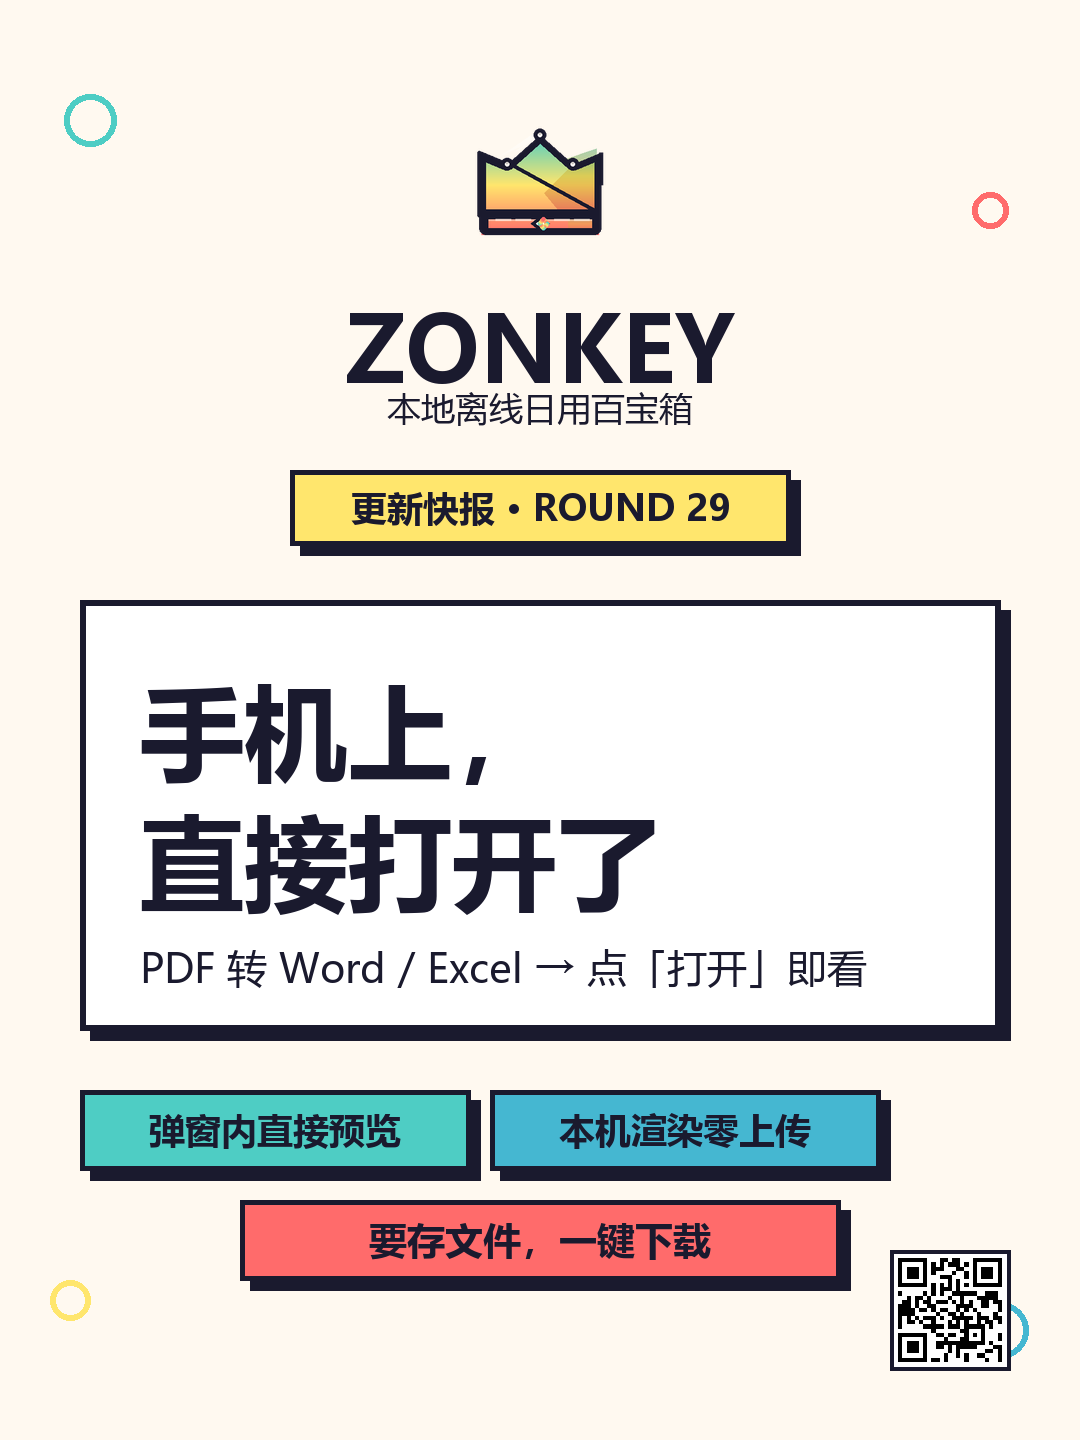
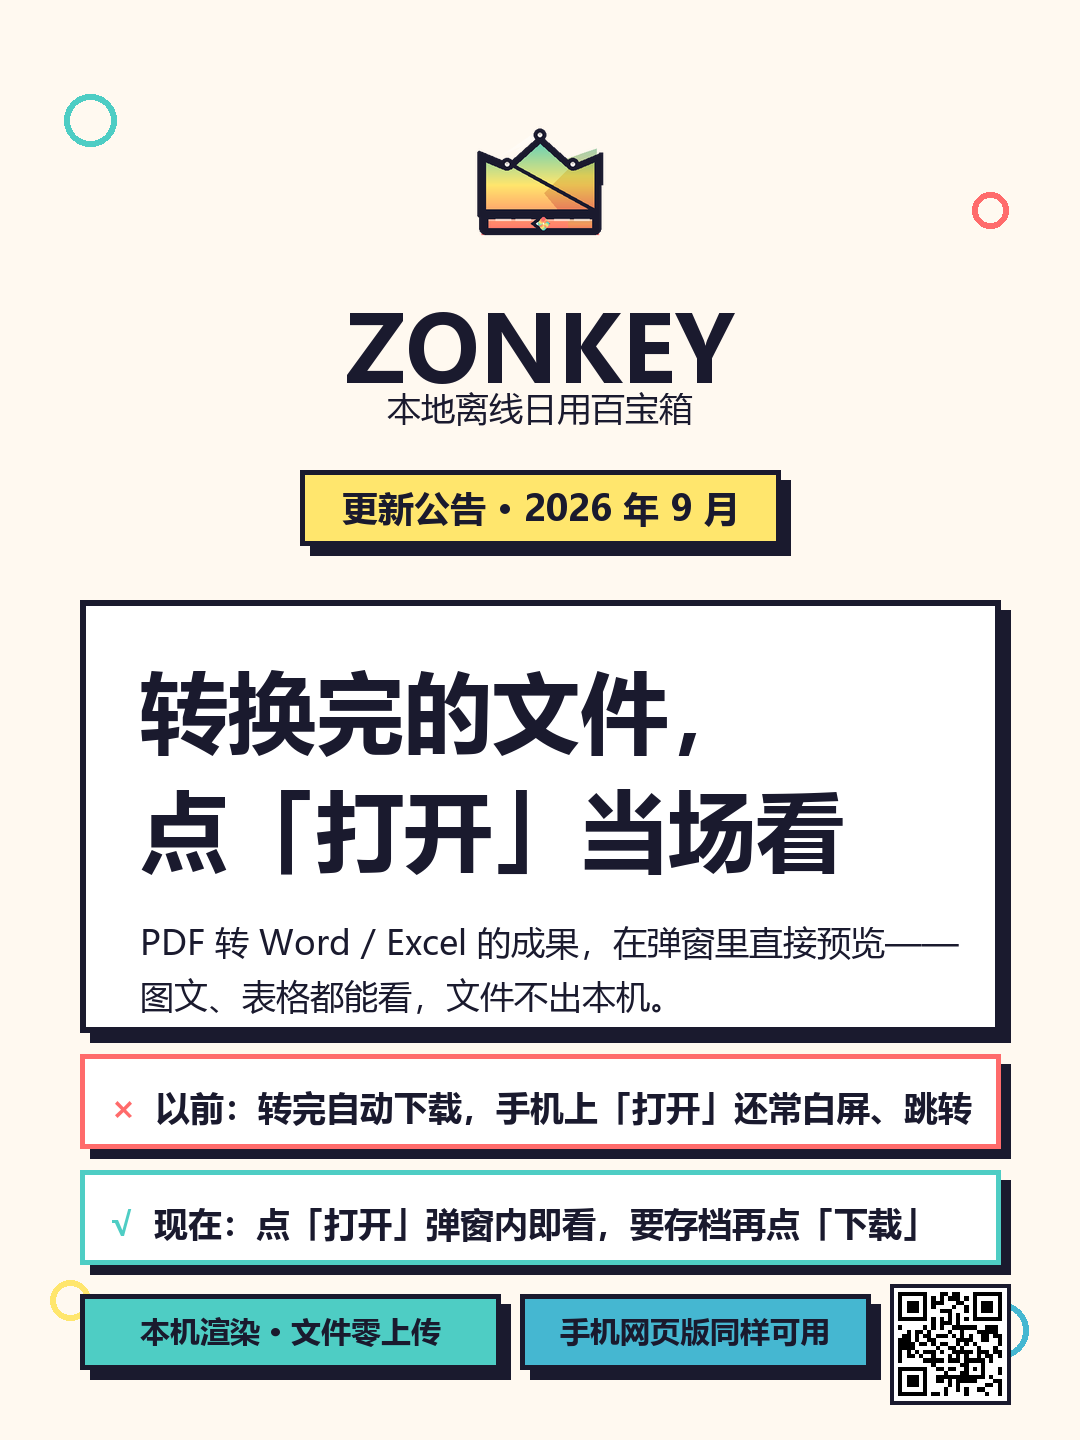
moments(r29)+docs: 朋友圈三卡按用户反馈重做——文案写清「本次更新了什么」(卡1 一句话点题+以前/现在对比、卡2 三件事清单不混旧轮功能、卡3 获取方式) + judge 视觉验收 3/3 pass + MOMENTS_KIT 文案 A/B 同步(旧功能降脚注) + handoff/status 登记 Release v2.1.0(0903 批次)落后本地 0907 待确认

Changed region(s): [[0.0611, 0.4688, 0.9472, 1.0], [0.2444, 0.3125, 0.7639, 0.375]]

diff --git a/scripts/gen_moments_r29.py b/scripts/gen_moments_r29.py
@@ -1,6 +1,12 @@
 # -*- coding: utf-8 -*-
 """round-29 朋友圈物料生成：docs/screenshots/round29/moments/moments-01~03.png
 1080×1440（3:4）Memphis 风格，品牌色与 index.css 同源，皇冠图标 alpha_composite 合成。
+
+文案口径（2026-09-07 用户反馈重做）：
+- 写清楚「本次更新了什么」——本次=r29 两条核心变化：
+  ① 转换结果点「打开」弹窗内直接预览（docx/xlsx 本机渲染、零上传、不跳转不白屏）
+  ② 转换完成不再自动下载，要存档再点「下载」
+- 不再把 r26-r28 旧功能混排成「这次更新」（QR/证件照等仅文案脚注提及，卡片不占主位）。
 """
 from pathlib import Path
 
@@ -23,44 +29,56 @@ WHITE = (255, 255, 255)
 F_BOLD = 'C:/Windows/Fonts/msyhbd.ttc'
 F_REG = 'C:/Windows/Fonts/msyh.ttc'
 
+
 def font(size, bold=True):
     return ImageFont.truetype(F_BOLD if bold else F_REG, size)
+
 
 def card_base():
     im = Image.new('RGB', (W, H), CREAM)
     d = ImageDraw.Draw(im)
-    # Memphis 装饰点/圈
     for (x, y, r, col) in [(90, 120, 26, TEAL), (990, 210, 18, CORAL), (70, 1300, 20, YELLOW), (1000, 1330, 28, SKY)]:
         d.ellipse([x - r, y - r, x + r, y + r], outline=col, width=6)
     return im, d
 
-def panel(d, box, fill=WHITE, width=6):
+
+def panel(d, box, fill=WHITE, width=6, border=INK):
     x0, y0, x1, y1 = box
     d.rectangle([x0 + 10, y0 + 10, x1 + 10, y1 + 10], fill=INK)  # memphis 硬阴影
-    d.rectangle(box, fill=fill, outline=INK, width=width)
+    d.rectangle(box, fill=fill, outline=border, width=width)
 
-def text_cjk(d, xy, text, f, fill=INK, max_w=None):
-    x, y = xy
-    if max_w is None:
-        d.text((x, y), text, font=f, fill=fill)
-        return d.textbbox((x, y), text, font=f)[3]
-    line, last_w = '', 0
+
+def _wrap(d, text, f, max_w):
+    """把 text 按 max_w 折行，返回行列表（字符级折行，适配 CJK）。"""
+    lines, line = [], ''
     for ch in text:
-        w = d.textlength(line + ch, font=f)
-        if max_w and w > max_w and line:
-            d.text((x, y), line, font=f, fill=fill)
-            y += d.textbbox((0, 0), line, font=f)[3] + 14
+        if line and d.textlength(line + ch, font=f) > max_w:
+            lines.append(line)
             line = ch
         else:
             line += ch
-    d.text((x, y), line, font=f, fill=fill)
-    return y + d.textbbox((0, 0), line, font=f)[3]
+    if line:
+        lines.append(line)
+    return lines
+
+
+def text_block(d, xy, lines, f, fill=INK, gap=13):
+    """逐行绘制；返回最后一行底 y。"""
+    x, y = xy
+    lh = d.textbbox((0, 0), '中', font=f)[3]
+    for i, ln in enumerate(lines):
+        d.text((x, y), ln, font=f, fill=fill)
+        if i < len(lines) - 1:
+            y += lh + gap
+    return y + lh
+
 
 def chip(d, box, label, fill, fsize=34):
     panel(d, box, fill=fill, width=5)
     x0, y0, x1, y1 = box
     tw = d.textlength(label, font=font(fsize))
     d.text(((x0 + x1 - tw) / 2, (y0 + y1) / 2 - fsize * 0.72), label, font=font(fsize), fill=INK)
+
 
 def qr_image(url, box_px):
     q = qrcode.QRCode(border=2, box_size=10)
@@ -69,9 +87,11 @@ def qr_image(url, box_px):
     im = q.make_image(fill_color='black', back_color='white').convert('RGB')
     return im.resize((box_px, box_px), Image.NEAREST)
 
+
 def crown(im, center, size=150):
     icon = Image.open(ROOT / 'assets' / 'zonkey.png').convert('RGBA').resize((size, size), Image.LANCZOS)
     im.paste(icon, (center[0] - size // 2, center[1] - size // 2), icon)
+
 
 def wordmark(d, cx, y, size=92):
     f = font(size)
@@ -81,52 +101,99 @@ def wordmark(d, cx, y, size=92):
     tw2 = d.textlength('本地离线日用百宝箱', font=font(34, False))
     d.text((cx - tw2 / 2, y + size + 8), '本地离线日用百宝箱', font=font(34, False), fill=INK)
 
-# ---------------- moments-01 主卡 ----------------
+
+def qr_box(im, d, box, url):
+    """小二维码 + 描边。box=(x0,y0,x1,y1)"""
+    x0, y0, x1, y1 = box
+    q = qr_image(url, x1 - x0)
+    im.paste(q, (x0, y0))
+    d.rectangle(box, outline=INK, width=4)
+
+
+def delta_row(d, y0, symbol, text, col):
+    """以前/现在 对比条；symbol 用强调色，正文用墨色。返回条底 y（含间距）。"""
+    box = (80, y0, 1000, y0 + 94)
+    panel(d, box, fill=WHITE, width=5, border=col)
+    prefix = symbol + '  '
+    f = font(34)
+    px = d.textlength(prefix, font=f)
+    d.text((110, y0 + 30), prefix, font=f, fill=col)
+    d.text((110 + px, y0 + 30), text, font=f, fill=INK)
+    return y0 + 116
+
+
+# ---------------- moments-01 主卡：一句话讲清本次更新 ----------------
 im, d = card_base()
 crown(im, (W // 2, 190), 150)
 wordmark(d, W // 2, 285)
-chip(d, (W // 2 - 250, 470, W // 2 + 250, 545), '更新快报 · ROUND 29', YELLOW, 36)
-panel(d, (80, 600, W - 80, 1030))
-text_cjk(d, (140, 660), '手机上，', font(104))
-text_cjk(d, (140, 790), '直接打开了', font(104))
-text_cjk(d, (140, 940), 'PDF 转 Word / Excel → 点「打开」即看', font(40, False))
-chip(d, (80, 1090, 470, 1170), '弹窗内直接预览', TEAL, 36)
-chip(d, (490, 1090, 880, 1170), '本机渲染零上传', SKY, 36)
-chip(d, (240, 1200, 840, 1280), '要存文件，一键下载', CORAL, 38)
-im.paste(qr_image('https://zonkey.pages.dev', 120), (W - 190, H - 190))
-d.rectangle([W - 190, H - 190, W - 70, H - 70], outline=INK, width=4)
+chip(d, (W // 2 - 240, 470, W // 2 + 240, 545), '更新公告 · 2026 年 9 月', YELLOW, 36)
+
+f_title = font(88)
+f_sub = font(34, False)
+sub = 'PDF 转 Word / Excel 的成果，在弹窗里直接预览——图文、表格都能看，文件不出本机。'
+sub_lines = _wrap(d, sub, f_sub, 830)
+panel(d, (80, 600, 1000, 1032))
+y = text_block(d, (140, 650), ['转换完的文件，', '点「打开」当场看'], f_title)
+y = text_block(d, (140, y + 44), sub_lines, f_sub)  # 说明 ≤2 行，结束 ≤1032
+
+# 以前 / 现在：用户最关心的「改了什么」一目了然
+ry = delta_row(d, y + 40, '×', '以前：转完自动下载，手机上「打开」还常白屏、跳转', CORAL)
+ry = delta_row(d, ry, '√', '现在：点「打开」弹窗内即看，要存档再点「下载」', TEAL)
+
+# 底部 chips（左）+ 小 QR（右下）
+chip(d, (80, ry + 8, 500, ry + 83), '本机渲染 · 文件零上传', TEAL, 30)
+chip(d, (520, ry + 8, 870, ry + 83), '手机网页版同样可用', SKY, 30)
+qr_box(im, d, (890, ry - 2, 1010, ry + 118), 'https://zonkey.pages.dev')
 im.save(OUT / 'moments-01.png')
 
-# ---------------- moments-02 更新清单卡 ----------------
+# ---------------- moments-02 更新清单卡：本次更新 3 件事 ----------------
 im, d = card_base()
-chip(d, (W // 2 - 300, 110, W // 2 + 300, 185), '这次更新了什么', CORAL, 40)
+chip(d, (W // 2 - 260, 110, W // 2 + 260, 185), '本次更新了什么', CORAL, 40)
+
 items = [
-    ('第 29 轮', '手机「打开」直接预览：PDF 转 Word/Excel 弹窗内即看，不用先下载', YELLOW),
-    ('第 28 轮', '二维码生成/识别 手机网页版可用，离线也能用', TEAL),
-    ('第 27 轮', '证件照换底色手机可用；「打开文件」白屏修复', SKY),
-    ('第 26 轮', '「任务完成」弹窗统一交付：打开 / 下载一键直达', CORAL),
+    ('弹窗内直接预览', YELLOW,
+     'PDF 转 Word / Excel 后点「打开」：内容在弹窗里原样渲染，图文表格直接看，不跳转、不白屏。'),
+    ('不再自动下载', TEAL,
+     '转换完成不再自动落文件、不再打断你；需要存档时点「下载」，按需保存一份。'),
+    ('本机完成 · 零上传', SKY,
+     '预览与转换都在你的设备上运行，文件不出本机、断网也能用；手机上同样适用。'),
 ]
-y = 250
-for tag, line, col in items:
-    panel(d, (80, y, W - 80, y + 265))
-    chip(d, (120, y + 40, 380, y + 110), tag, col, 34)
-    text_cjk(d, (120, y + 135), line, font(36, False), max_w=W - 280)
-    y += 290
+y = 240
+for tag, col, desc in items:
+    panel(d, (80, y, 1000, y + 300))
+    chip(d, (110, y + 34, 430, y + 102), tag, col, 33)
+    d_lines = _wrap(d, desc, font(35, False), 800)
+    text_block(d, (110, y + 126), d_lines, font(35, False))
+    y += 320
+
+# 底部说明条 + 日期锚点
+note = '网页版本次更新已全部上线；桌面版同步更新——桌面端点「打开」仍走系统默认程序。'
+n_lines = _wrap(d, note, font(30, False), 820)
+panel(d, (80, y + 8, 1000, y + 8 + 52 + len(n_lines) * 44))
+text_block(d, (120, y + 24), n_lines, font(30, False))
+note_b = y + 8 + 52 + len(n_lines) * 44
+tw = d.textlength('2026 年 9 月 · zonkey.pages.dev', font=font(30))
+d.text(((W - tw) / 2, note_b + 22), '2026 年 9 月 · zonkey.pages.dev', font=font(30), fill=INK)
 im.save(OUT / 'moments-02.png')
 
 # ---------------- moments-03 获取方式卡 ----------------
 im, d = card_base()
 crown(im, (W // 2, 200), 140)
-wordmark(d, W // 2, 300)
-panel(d, (80, 500, W - 80, 780))
-d.text((140, 540), '网页版 · 扫码即用', font=font(56), fill=INK)
-text_cjk(d, (140, 630), '手机浏览器打开 zonkey.pages.dev', font(40, False))
-text_cjk(d, (140, 690), '不用安装，本次更新已上线', font(40, False))
+wordmark(d, W // 2, 300, size=84)
+
+panel(d, (80, 500, 1000, 790))
+d.text((130, 540), '网页版 · 扫码即用', font=font(56), fill=INK)
+l1 = _wrap(d, '本次更新已上线：转换完的文件点「打开」就能看', font(34, False), 830)
+l2 = _wrap(d, '手机上免安装直接用 · 文件只在你的设备上处理', font(34, False), 830)
+text_block(d, (130, 626), l1, font(34, False))
+text_block(d, (130, 700), l2, font(34, False))
 im.paste(qr_image('https://zonkey.pages.dev', 300), (W // 2 - 150, 840))
 d.rectangle([W // 2 - 150, 840, W // 2 + 150, 1140], outline=INK, width=6)
-panel(d, (80, 1190, W - 80, 1370))
-d.text((140, 1230), '桌面版 · 完整能力', font=font(52), fill=INK)
-text_cjk(d, (140, 1310), 'GitHub / Gitee 搜「ZonKey」· 免费开源', font(38, False))
+
+panel(d, (80, 1190, 1000, 1400))
+d.text((130, 1226), '桌面版 · 完整能力', font=font(50), fill=INK)
+text_block(d, (130, 1294), ['GitHub / Gitee 搜「ZonKey」'], font(34, False))
+text_block(d, (130, 1350), ['Release 里有安装包和便携版'], font(34, False))
 im.save(OUT / 'moments-03.png')
 
 print('moments r29 ->', OUT)

diff --git a/docs/AGENTS_HANDOFF.md b/docs/AGENTS_HANDOFF.md
@@ -13,6 +13,8 @@
 - **验证汇总**：npm build（主 chunk `index-Bh4HOGe1.js`，视图/i18n 在 `index-Pye54myn.js`）；新 `temp_ui_test/r29_preview_smoke.py` **18/18**——离线组（route abort 模拟 Pages）：PDF→Word 弹窗「打开」可见 + mammoth 预览正文命中 fixture 标记 + **转换完成零自动下载** + 手动「下载」×1、PDF→Excel SheetJS 表格+Page 1 sheet 名、手机 390×844 全链路；WhatsNew 首启自动弹 + 「第 29 轮/直接预览」文案 + 知道了后 seenRound=29 落盘；E0 零 pageerror（route-abort 网络噪声除外）。pytest **151 passed**（--ignore native dialog）。
 - **收尾状态**：git 分批提交 master 4 笔（`d0f9bd1` 预览修复 → `8b1bbb7` 三语 → `acb8b62` 冒烟+物料 → 本笔 docs）。**EXE 重打包**：等义 bash 链 exit=0（`build_exe_r29.log`），release_acceptance 8/8 PASS，三产物+sidecar 同批 16:40-16:42（Setup 161.0MB / 7z 161.7MB / zip 223.7MB）；zip 主 chunk `index-Bh4HOGe1.js` md5=本地（0c66c8a0），r29 特征串命中（previewLoading×10 / previewNote×4 / artifact-preview-modal×1 / 第 29 轮×1，均在 index-Pye54myn.js）；**Setup 静默实装** EXIT=0+命中，装完即删。**Pages 生产部署 `847a05cc`**（--branch main，Production 实证）：主域 bundle=`index-Pye54myn.js`，**线上 md5=本地=zip 三方一致**（d8f9a1c7），线上 previewLoading 命中。
 - **朋友圈物料**：`docs/screenshots/round29/moments/moments-01~03.png`（1080×1440 3:4，主卡/更新清单/获取方式）+ `scripts/gen_moments_r29.py`（PIL 生成，品牌色与 index.css 同源，皇冠 alpha_composite）+ MOMENTS_KIT.md round-29 节（文案 A/B + 发布建议）。
+  - **当晚重做（用户反馈：写清楚「本次更新了什么」）**：初版把 r26-r28 旧功能（QR/证件照）混排成「这次更新」清单——用户纠正本次只有两条核心变化：①「打开」弹窗内直接预览（本机渲染零上传）②不再自动下载。`gen_moments_r29.py` 文案结构重写：卡1=一句话点题+×/√ 以前现在对比条；卡2=「本次更新了什么」3 件事清单（全部为本次变化，桌面端「仍走系统默认程序」脚注级区分）；卡3=获取方式不变。MOMENTS_KIT.md 文案 A/B 同步（旧功能降为一行脚注）。三卡 judge 视觉验收 3/3 pass。
+  - **Release 状态核实**：线上 Latest=v2.1.0（资产 20260903 批次），本地已产出 20260907 批次三产物——网页下载弹窗动态拉 GitHub Release，当前用户下到的仍是 0903 旧版；是否上传 0907 及方式（追加 v2.1.0 vs 新 tag）待用户确认。
 - **接手注意**：① 弹窗预览=内容视图是设计取舍（mammoth 丢精确排版），要「所见即所得」需重型渲染器（许可+体积双否决，勿轻易引）；② `docPreviewExt`/`BROWSER_PREVIEWABLE` 模块局部名 minified 后 grep 不到属预期，验包用 i18n 特征串（previewLoading/previewNote）；③ wrangler 直传部署的 Source 列与 git sha 不对应，判定部署以 **deployment id + Environment + 线上 bundle md5** 为准；④ reportlab 只是冒烟 fixture 依赖（temp_ui_test），非运行依赖；⑤ 转换类反馈新分类口径补充：「下载可以/打开白屏」=交付层（r27/r29 两轮演进）——先分清用户要「打开」还是「拿到文件」。
 
 ## 〇、2026-09-07 第二十八轮（手机网页版用户反馈三件：405/确认/QR，上轮）

diff --git a/docs/PROJECT_STATUS.md b/docs/PROJECT_STATUS.md
@@ -8,7 +8,8 @@
 | WhatsNew 补课 | ✅ | WHATSNEW_ROUND 23→29（r24-r28 四轮未升的债），entries r26-r29 三语补齐、r19-r23 已读旧条清理；老用户首启重弹一次 |
 | 回归验证 | ✅ | npm build（`index-Bh4HOGe1.js`）；新 `r29_preview_smoke.py` **18/18**（打开按钮可见/预览命中/**零自动下载**/手动下载×1/xlsx 表格/手机 390px/WhatsNew 29 首启+seenRound 落盘/零 pageerror）；pytest **151 passed** |
 | 收尾状态 | ✅ | git 4 笔（`d0f9bd1`/`8b1bbb7`/`acb8b62`/本笔）；EXE 三产物+sidecar 同批 16:40-16:42 + 验收 8/8 + Setup 静默实装命中装完即删；Pages 生产 `847a05cc`（线上 md5 d8f9a1c7=本地=zip）。朋友圈物料三卡（`docs/screenshots/round29/moments/`）+ `scripts/gen_moments_r29.py` + MOMENTS_KIT.md round-29 文案 A/B |
-| 遗留 | — | ① 手机真机复测「打开」预览（Safari / 安卓 Chrome / 微信内置浏览器——微信内下载受限是已知边界，restrictedBrowser 黄条已有引导换系统浏览器）；② pptx 预览暂无许可干净的轻量渲染器，如实保持下载通道；③ 朋友圈素材已就绪待用户发布 |
+| 朋友圈重做 | ✅ | 当晚按用户反馈重写 `gen_moments_r29.py` 文案结构：卡1=一句话点题+以前/现在对比；卡2=「本次更新了什么」3 件事（不再混排 r26-r28 旧功能）；卡3=获取方式。MOMENTS_KIT.md 同步；judge 视觉验收 3/3 pass |
+| 遗留 | — | ① 手机真机复测「打开」预览（Safari / 安卓 Chrome / 微信内置浏览器——微信内下载受限是已知边界，restrictedBrowser 黄条已有引导换系统浏览器）；② pptx 预览暂无许可干净的轻量渲染器，如实保持下载通道；③ 朋友圈素材已就绪待用户发布；④ 线上 Release v2.1.0 资产仍是 20260903 批次，本地 20260907 三产物未上传——网页下载弹窗动态拉 Release，用户现下到的是旧版（上传方式待用户确认） |
 
 ## 2026-09-07 第二十八轮进度（手机网页版用户反馈，上轮）
 
